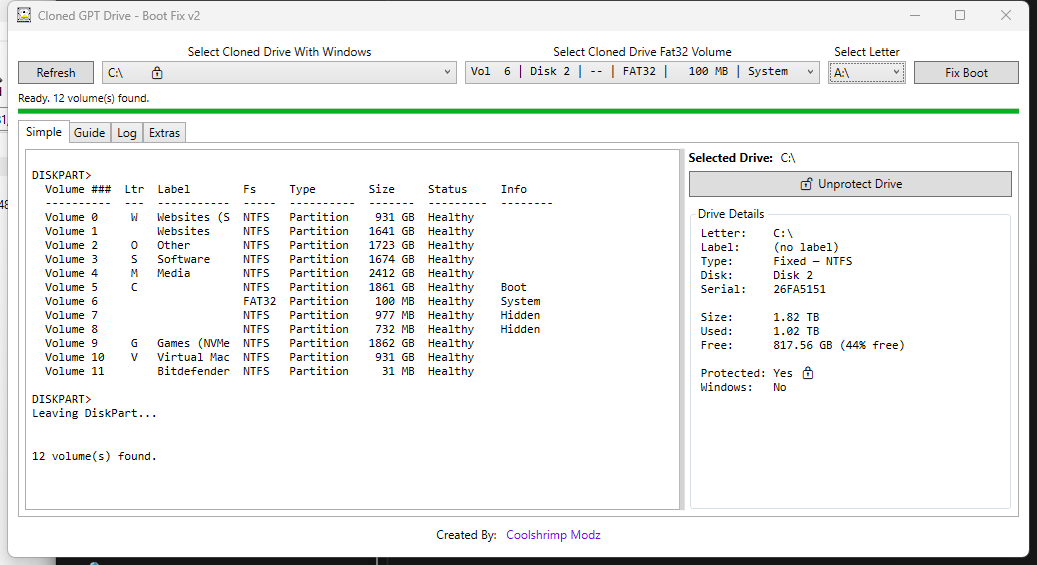
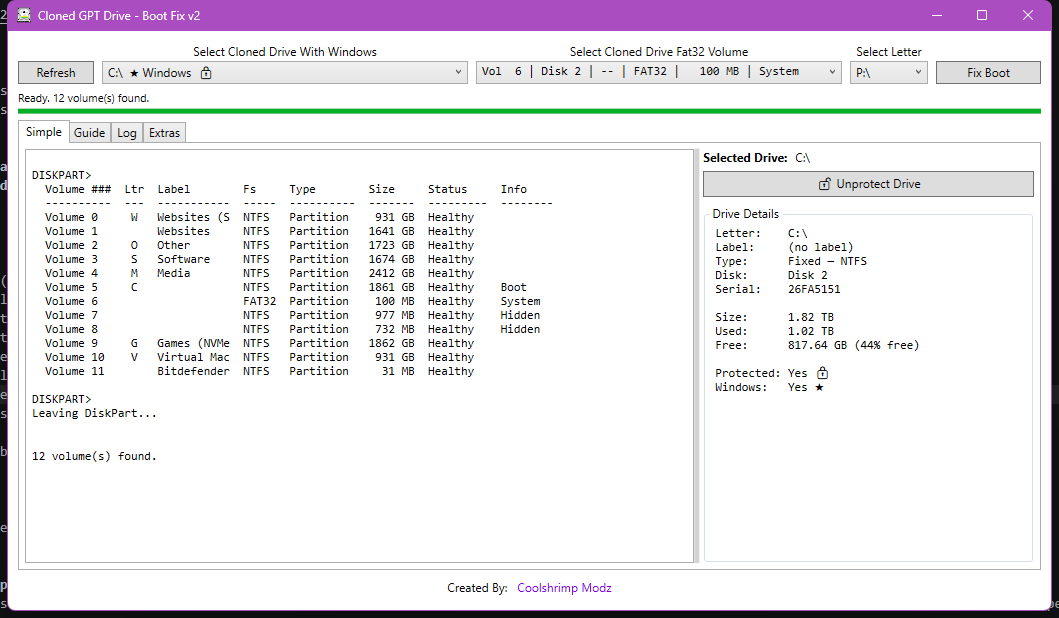
v2.0.2: fix Windows detection on host drive, keep settings across upgrades
- The Windows-installation check failed on the running system's own drive:
  the exe carried the Preferred32Bit CorFlag, so WoW64 redirected
  C:\Windows\System32 away from the checker; verified fixed - the exe now
  builds ILOnly and runs 64-bit
- Check the ACL-safe System32\config directory instead of the restricted
  SYSTEM hive file, which File.Exists reports as missing on access-denied
- Call Settings.Upgrade() on a fresh settings store so the protected-drives
  list survives version bumps (user settings live in per-version folders)
- Tighten drive dropdown markers: two spaces between name/label and the
  star/network/lock markers instead of wide padding
- Rename the app icon to AppIcon.ico, start the window 50px larger (822x600),
  refresh the main README screenshot

Changed region(s): [[0.0, 0.0, 1.0, 1.0], [0.9875, 0.6319, 1.0, 0.6619]]

diff --git a/Cloned GPT Drive - Boot Fix/MainWindow.xaml b/Cloned GPT Drive - Boot Fix/MainWindow.xaml
@@ -5,7 +5,7 @@
         xmlns:mc="http://schemas.openxmlformats.org/markup-compatibility/2006"
         xmlns:local="clr-namespace:Cloned_GPT_Drive___Boot_Fix"
         mc:Ignorable="d"
-        Title="Cloned GPT Drive - Boot Fix v2" Height="550" Width="772" MinHeight="480" MinWidth="720">
+        Title="Cloned GPT Drive - Boot Fix v2" Height="600" Width="822" MinHeight="480" MinWidth="720">
 
     <Window.Resources>
         <Style x:Key="GuideTitle" TargetType="TextBlock">

diff --git a/Cloned GPT Drive - Boot Fix/MainWindow.xaml.cs b/Cloned GPT Drive - Boot Fix/MainWindow.xaml.cs
@@ -56,6 +56,14 @@ namespace Cloned_GPT_Drive___Boot_Fix
         {
             InitializeComponent();
 
+            // A fresh settings store can mean a version upgrade rather than a true first
+            // run — user settings live in a per-version folder, so pull the previous
+            // version's values (protected drives!) forward before deciding anything.
+            if (Properties.Settings.Default.IsFirstRun)
+            {
+                try { Properties.Settings.Default.Upgrade(); } catch { }
+            }
+
             // Initialize protected drives collection if null
             if (Properties.Settings.Default.ProtectedDrives == null)
             {
@@ -131,8 +139,10 @@ namespace Cloned_GPT_Drive___Boot_Fix
                     system32 = System.IO.Path.Combine(windowsDir, "Sysnative");
                 }
 
+                // Check the config DIRECTORY, not the SYSTEM hive file inside it — the hive
+                // is ACL-restricted and File.Exists reports false on access-denied
                 return File.Exists(System.IO.Path.Combine(system32, "ntoskrnl.exe"))
-                    && File.Exists(System.IO.Path.Combine(system32, "config", "SYSTEM"))
+                    && Directory.Exists(System.IO.Path.Combine(system32, "config"))
                     && File.Exists(System.IO.Path.Combine(windowsDir, "explorer.exe"));
             }
             catch
@@ -160,13 +170,19 @@ namespace Cloned_GPT_Drive___Boot_Fix
                 DriveInfo driveInfo = new DriveInfo(drive);
                 if (driveInfo.IsReady)
                 {
-                    // Markers go at the END so the drive letter stays first; the 🪟 emoji
+                    // Markers go at the END, tight after the name/label; the 🪟 emoji
                     // is too new for the default font and rendered as a square
-                    string windowsMarker = IsWindowsInstallation(drive) ? "   ★ Windows" : "";
-                    string networkMarker = driveInfo.DriveType == DriveType.Network ? "   (Network)" : "";
-                    string protectedMarker = IsDriveProtected(drive) ? "   🔒" : "";
-                    string display = driveInfo.Name + "     " + driveInfo.VolumeLabel + windowsMarker + networkMarker + protectedMarker;
-                    DriveSelection_ddbox.Items.Add(display);
+                    var displayParts = new List<string> { driveInfo.Name };
+                    if (!string.IsNullOrEmpty(driveInfo.VolumeLabel))
+                        displayParts.Add(driveInfo.VolumeLabel);
+                    if (IsWindowsInstallation(drive))
+                        displayParts.Add("★ Windows");
+                    if (driveInfo.DriveType == DriveType.Network)
+                        displayParts.Add("(Network)");
+                    if (IsDriveProtected(drive))
+                        displayParts.Add("🔒");
+
+                    DriveSelection_ddbox.Items.Add(string.Join("  ", displayParts));
                 }
             }
 

diff --git a/Cloned GPT Drive - Boot Fix/Properties/AssemblyInfo.cs b/Cloned GPT Drive - Boot Fix/Properties/AssemblyInfo.cs
@@ -51,5 +51,5 @@ using System.Windows;
 // You can specify all the values or you can default the Build and Revision Numbers
 // by using the '*' as shown below:
 // [assembly: AssemblyVersion("1.0.*")]
-[assembly: AssemblyVersion("2.0.1.0")]
-[assembly: AssemblyFileVersion("2.0.1.0")]
+[assembly: AssemblyVersion("2.0.2.0")]
+[assembly: AssemblyFileVersion("2.0.2.0")]